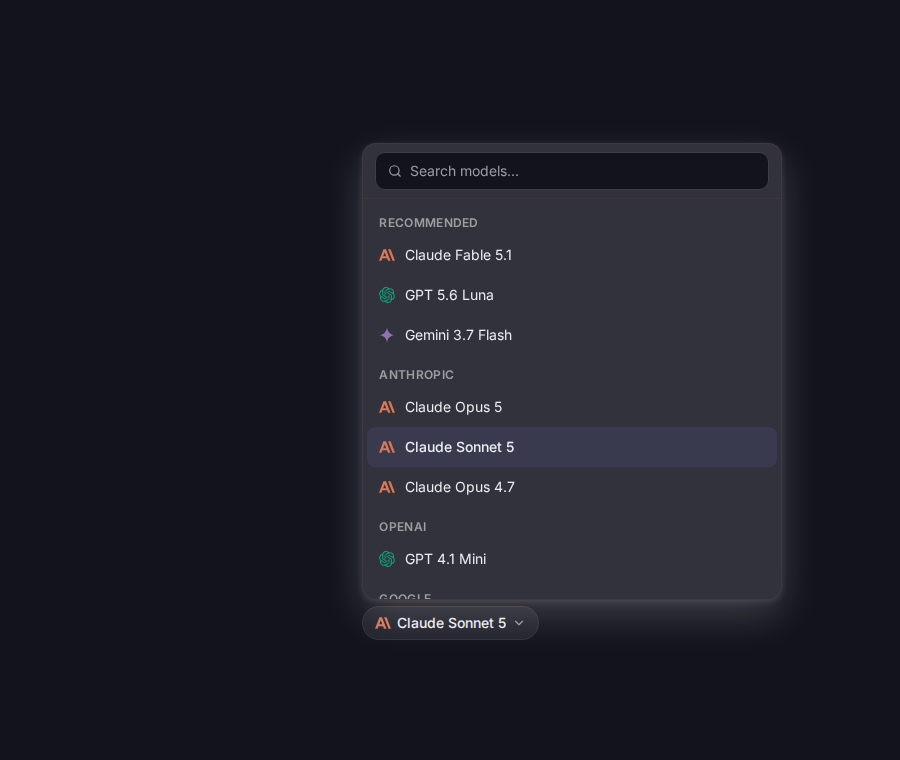
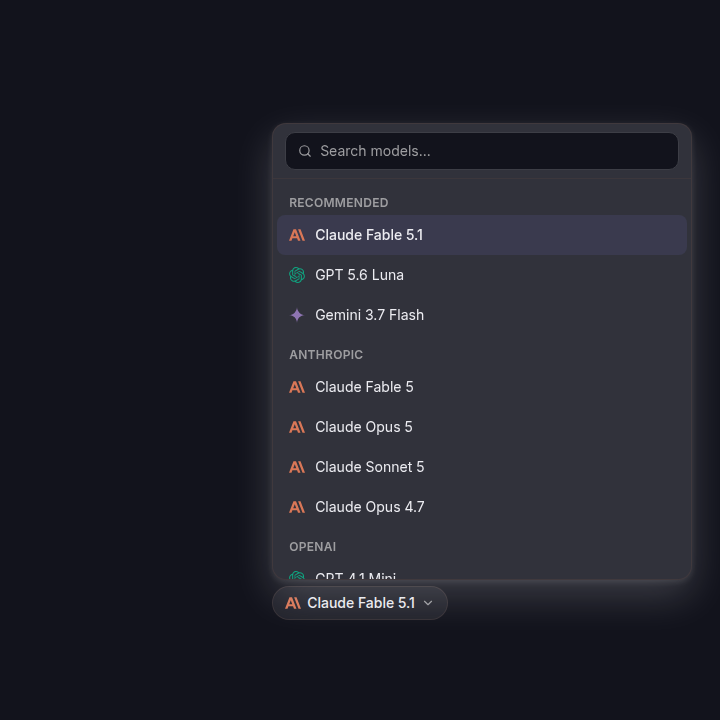
docs(catalog): replace stale freshness proof [skip release]

Changed region(s): [[0.3667, 0.1528, 0.9778, 0.8556]]

diff --git a/src/stories/chat-controls/ModelPicker.stories.tsx b/src/stories/chat-controls/ModelPicker.stories.tsx
@@ -57,6 +57,7 @@ const currentModels: CatalogModel[] = [
   { id: 'gemini-3.7-flash', name: 'Gemini 3.7 Flash', provider: 'google', supportsTools: true, supportsReasoning: true, featured: true },
   { id: 'gpt-5.6-luna', name: 'GPT 5.6 Luna', provider: 'openai', supportsTools: true, supportsReasoning: true, featured: true },
   { id: 'claude-sonnet-5', name: 'Claude Sonnet 5', provider: 'anthropic', supportsTools: true, supportsReasoning: true, featured: true },
+  { id: 'claude-fable-5', name: 'Claude Fable 5', provider: 'anthropic', supportsTools: true, supportsReasoning: true, featured: true },
   { id: 'claude-fable-5-1', name: 'Claude Fable 5.1', provider: 'anthropic', supportsTools: true, supportsReasoning: true, featured: true },
 ]
 
@@ -67,7 +68,7 @@ export const FreshnessOrdering: Story = {
   render: () => (
     <AutoClick>
       <ModelPicker
-        value="claude-sonnet-5"
+        value="claude-fable-5-1"
         onChange={() => {}}
         models={currentModels}
       />

diff --git a/tests/model-catalog.test.ts b/tests/model-catalog.test.ts
@@ -273,11 +273,13 @@ describe('sortModelsByFreshness', () => {
       model('claude-opus-4-7', 'anthropic'),
       model('claude-opus-5', 'anthropic'),
       model('claude-sonnet-5', 'anthropic'),
+      model('claude-fable-5', 'anthropic'),
       model('claude-fable-5-1', 'anthropic'),
     ])
 
     expect(sorted.map((entry) => entry.id)).toEqual([
       'claude-fable-5-1',
+      'claude-fable-5',
       'claude-opus-5',
       'claude-sonnet-5',
       'claude-opus-4-7',
